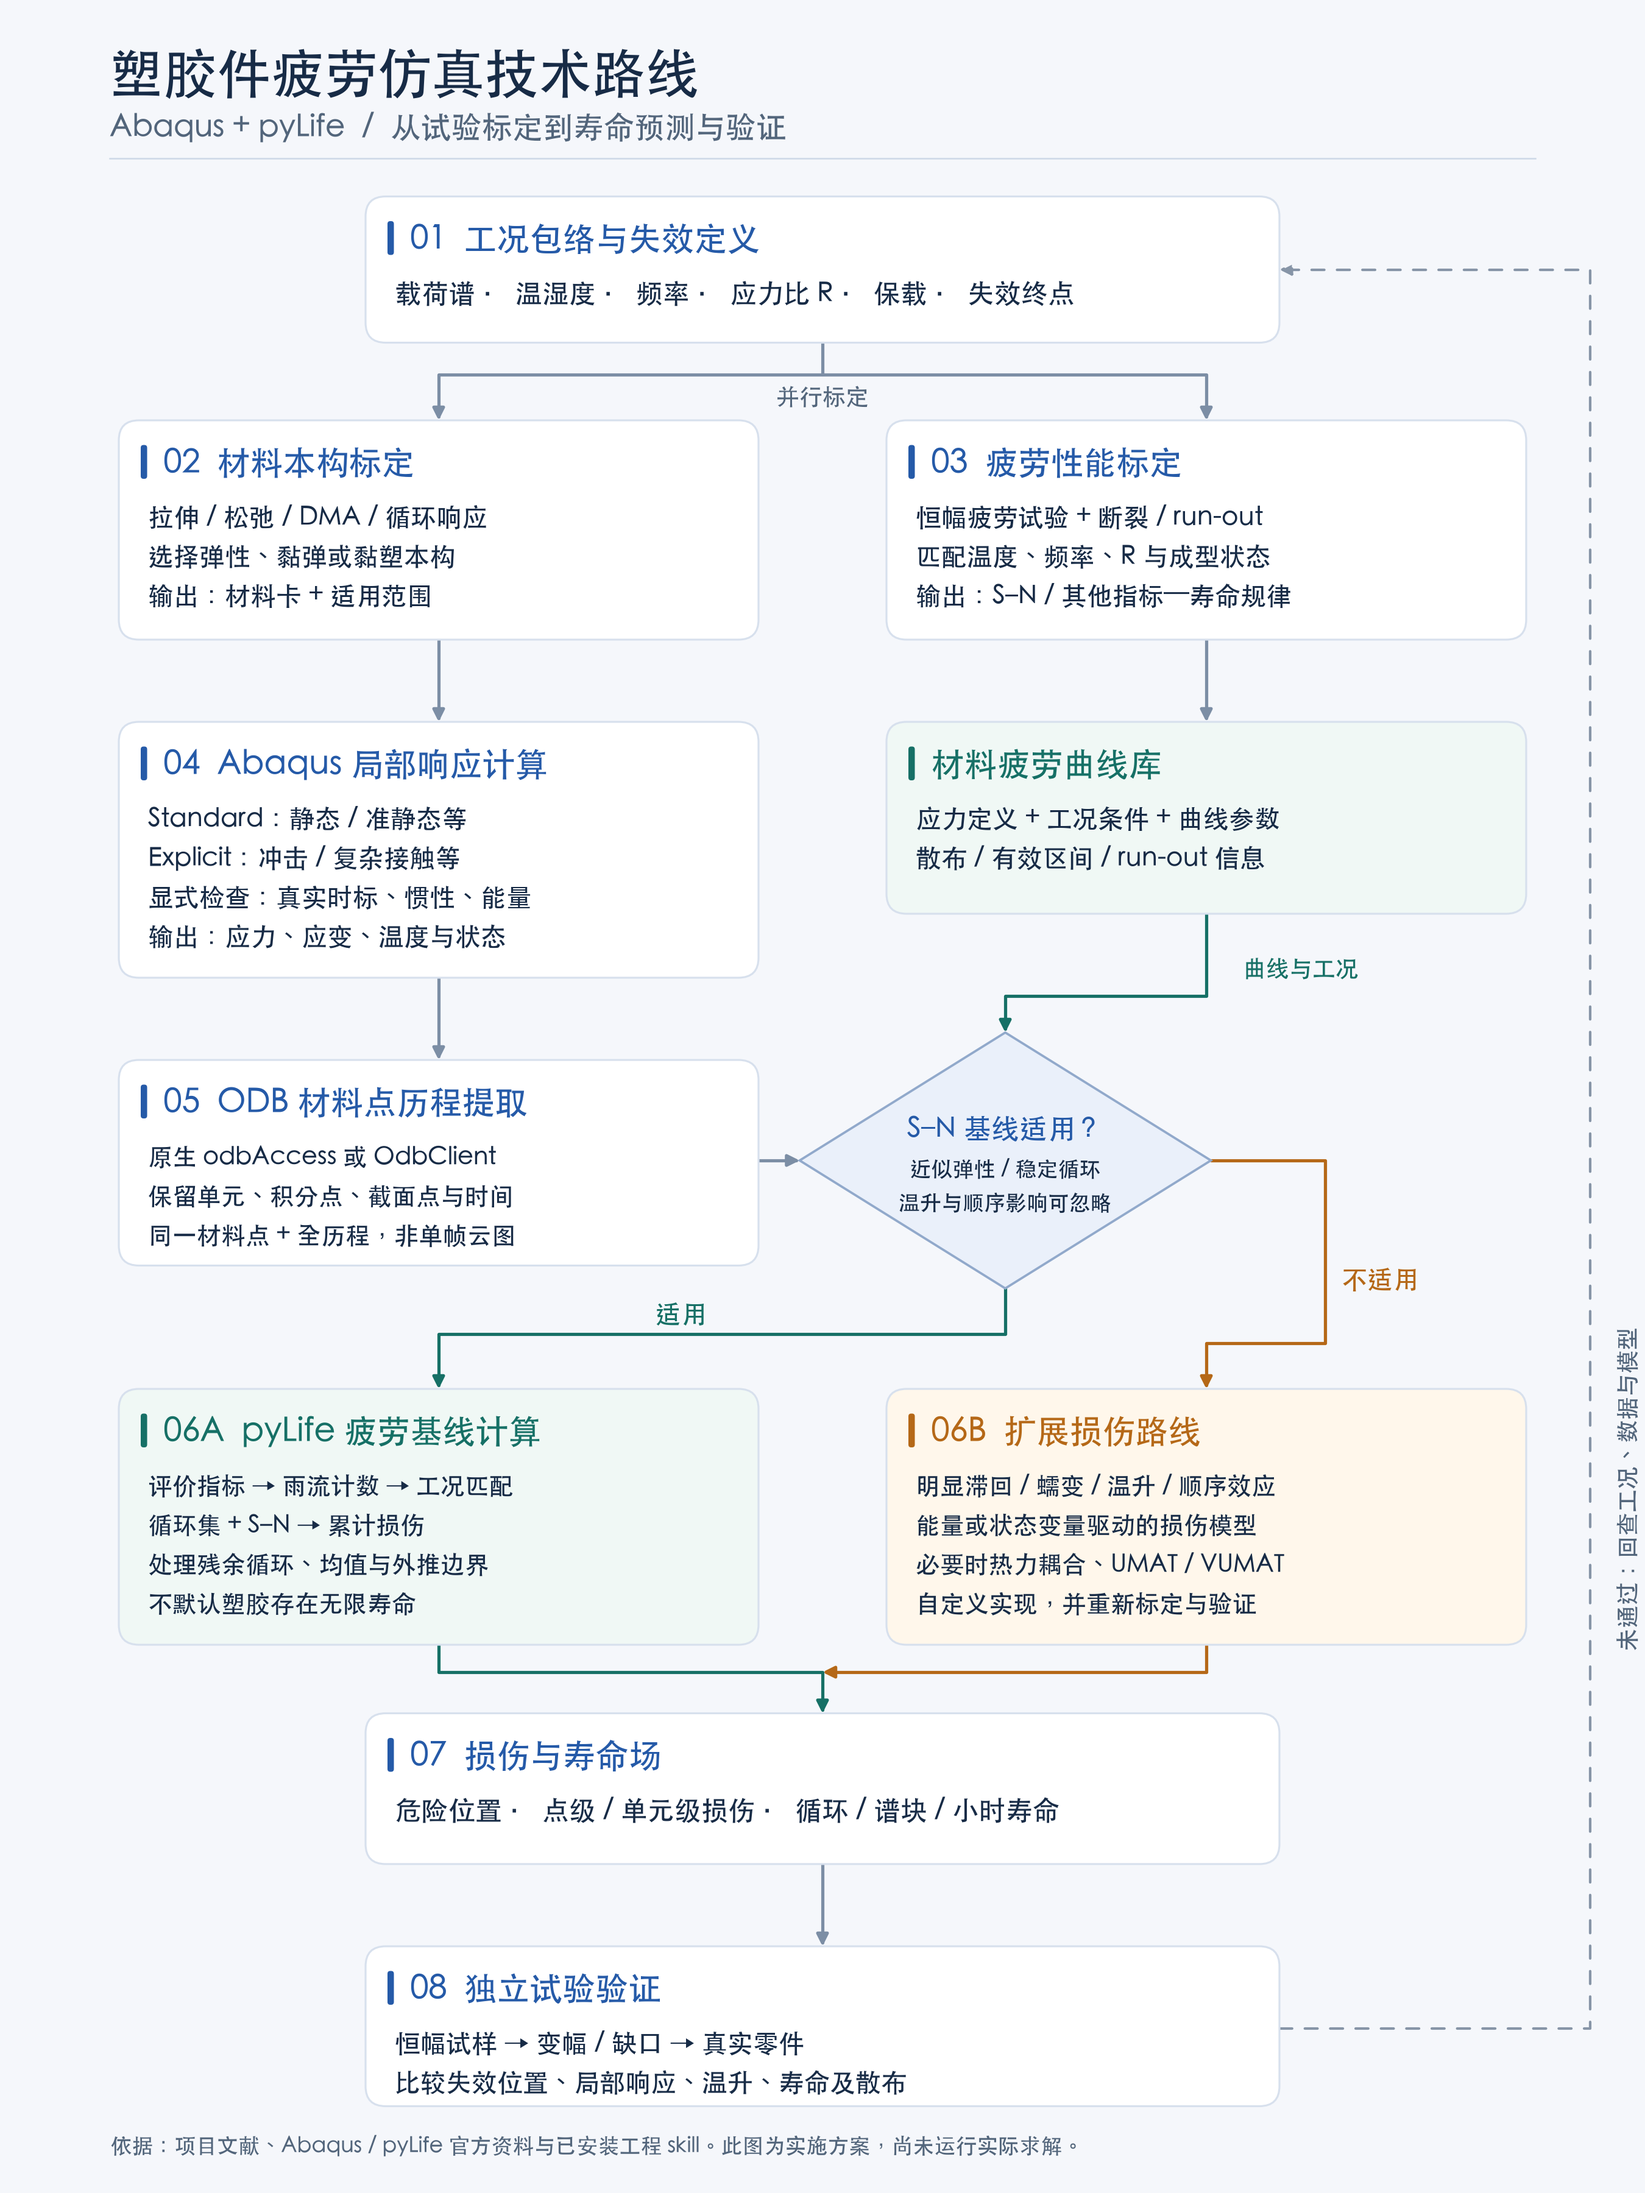
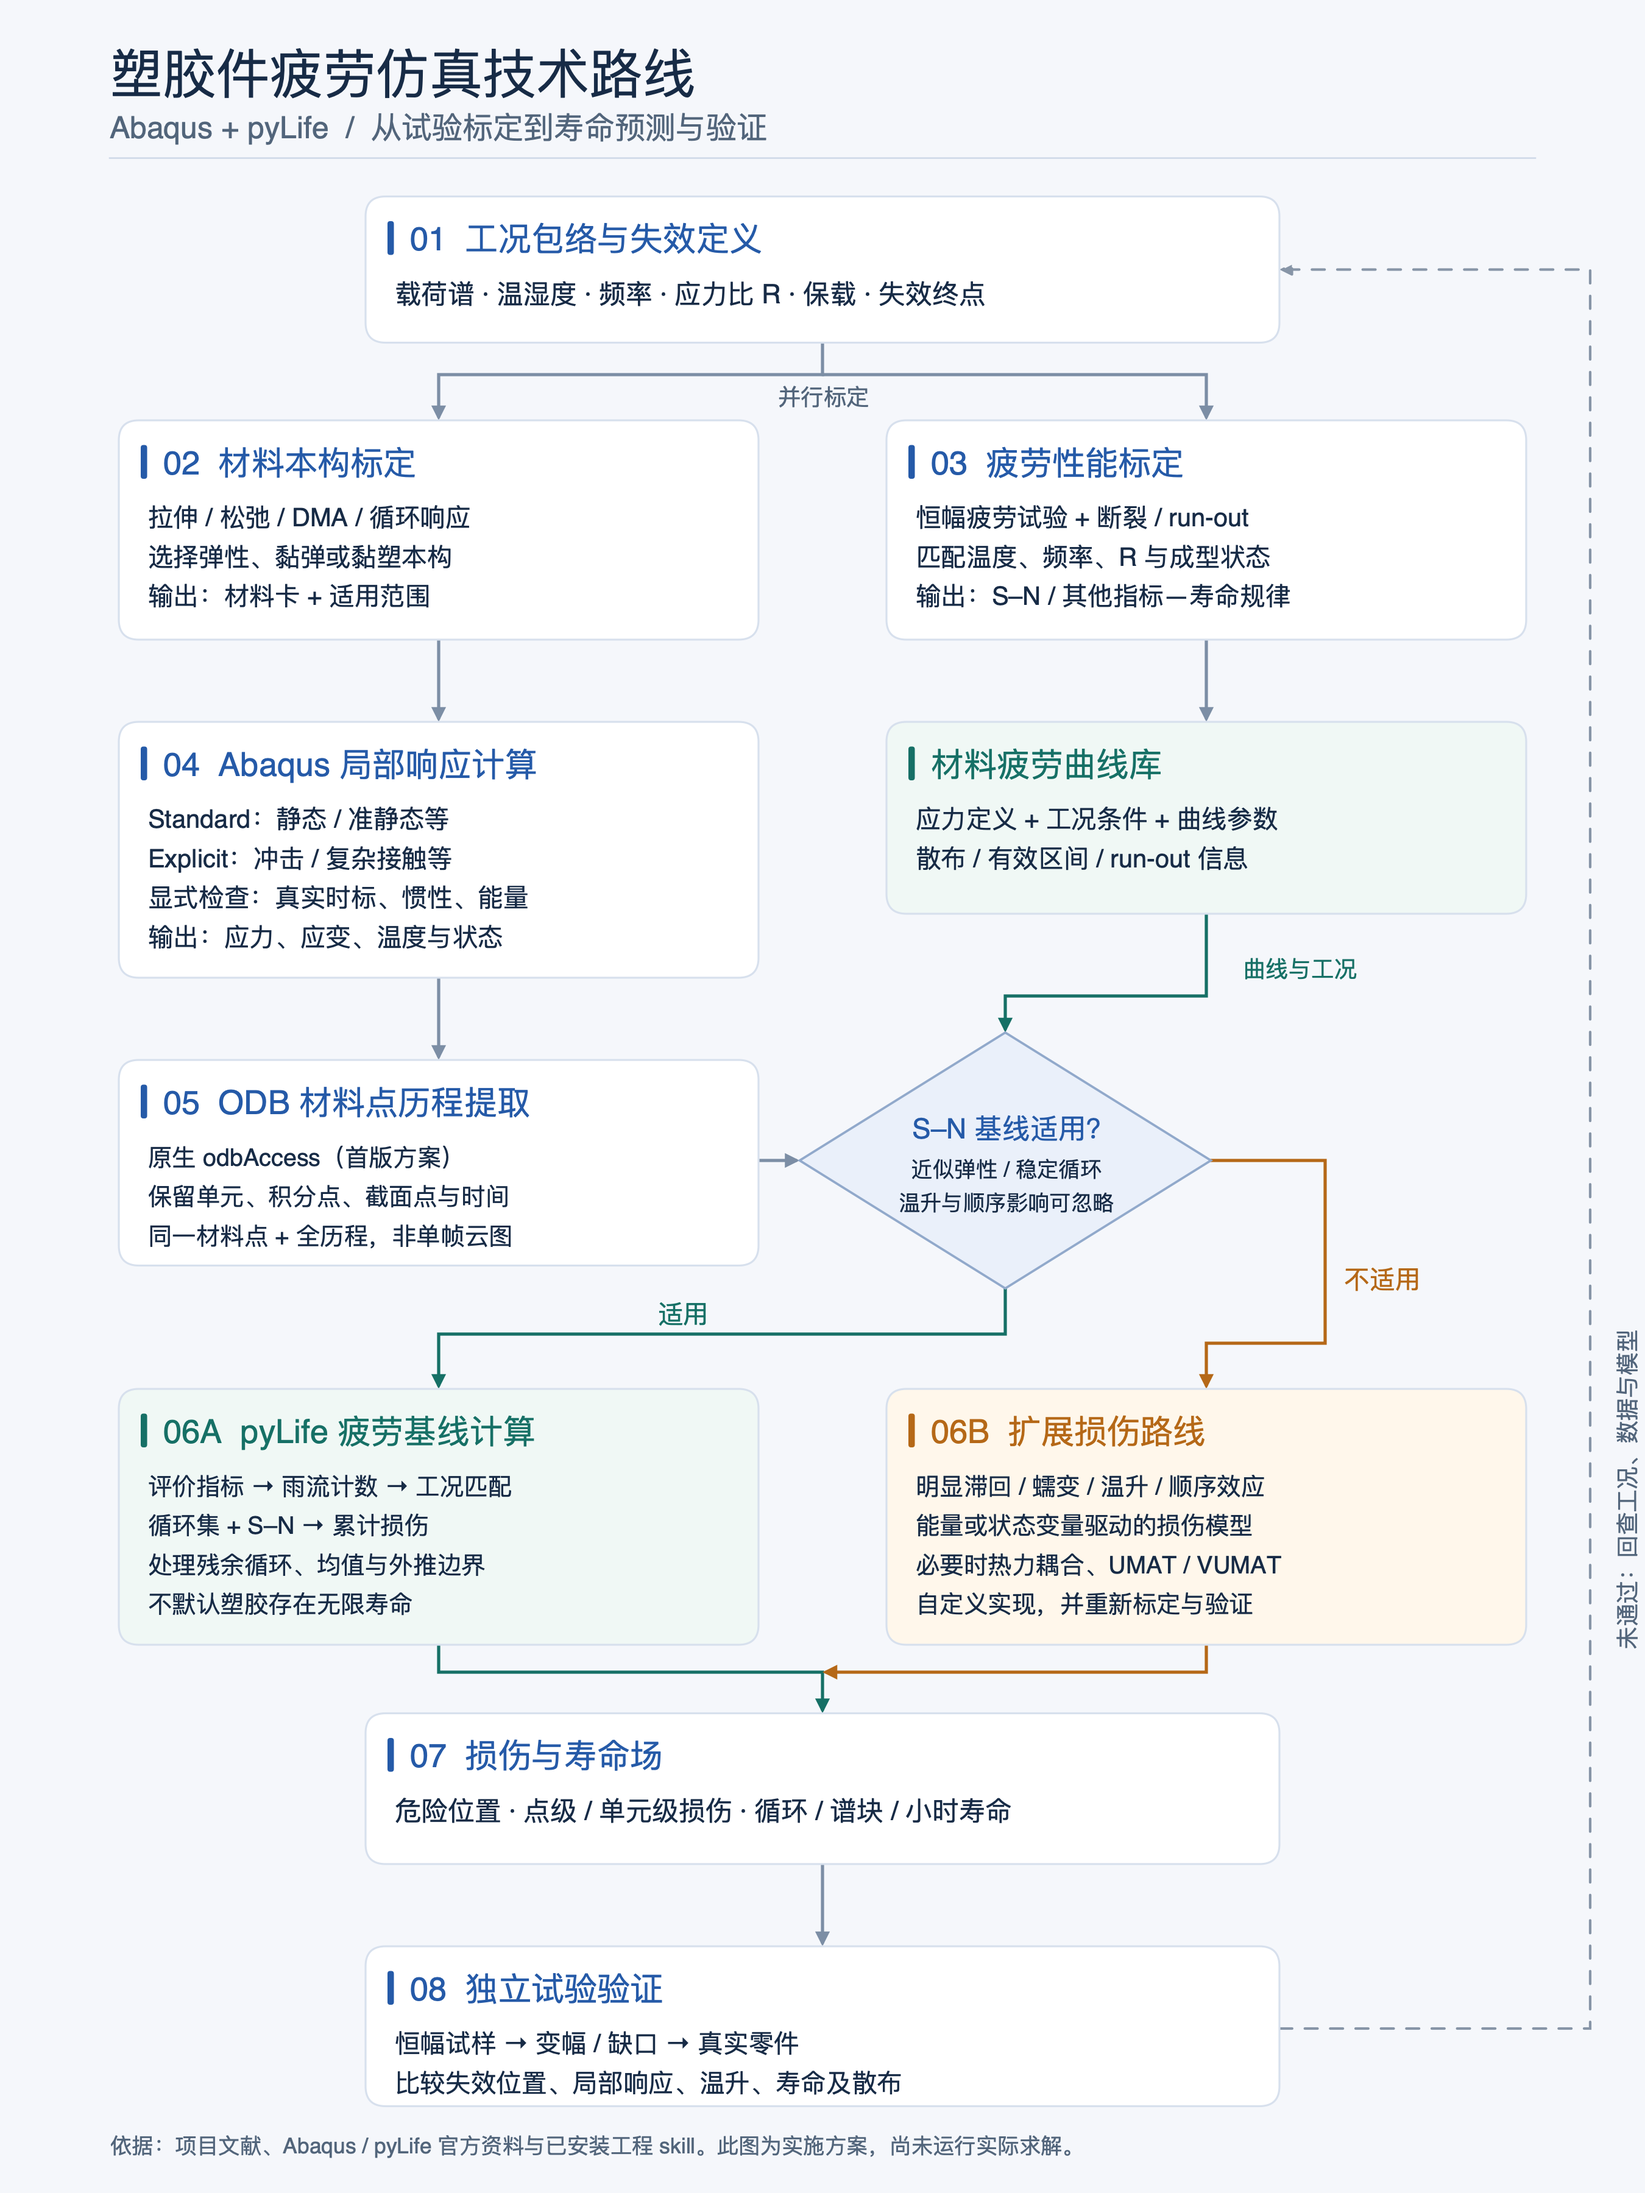
Clarify ODB export in technical route diagram

diff --git a/docs/technical-route.md b/docs/technical-route.md
@@ -22,7 +22,7 @@
 
 [查看可编辑SVG矢量版](assets/technical-route.svg)。蓝色部分为输入与机械响应，绿色为S-N疲劳基线，橙色为复杂响应下的扩展路线；虚线表示验证反馈。
 
-**图中第05步的实现边界**：图示中的 OdbClient 是待评估选项，并不表示已支持完整壳截面点。当前对 pyLife 2.3.1 服务端的静态检查发现，字段索引未显式包含截面点，部分网格查询限制实体单元；首版应优先验证 Abaqus 原生 `odbAccess` 导出，并用真实实体和壳 ODB 核对。上述桥接及疲劳流程目前均非已完成的实际零件求解。
+**图中第05步的实现边界**：OdbClient 是后续待评估选项，并不表示已支持完整壳截面点。当前对 pyLife 2.3.1 服务端的静态检查发现，字段索引未显式包含截面点，部分网格查询限制实体单元；首版应优先验证 Abaqus 原生 `odbAccess` 导出，并用真实实体和壳 ODB 核对。上述桥接及疲劳流程目前均非已完成的实际零件求解。
 
 <details>
 <summary>Mermaid结构源图</summary>
